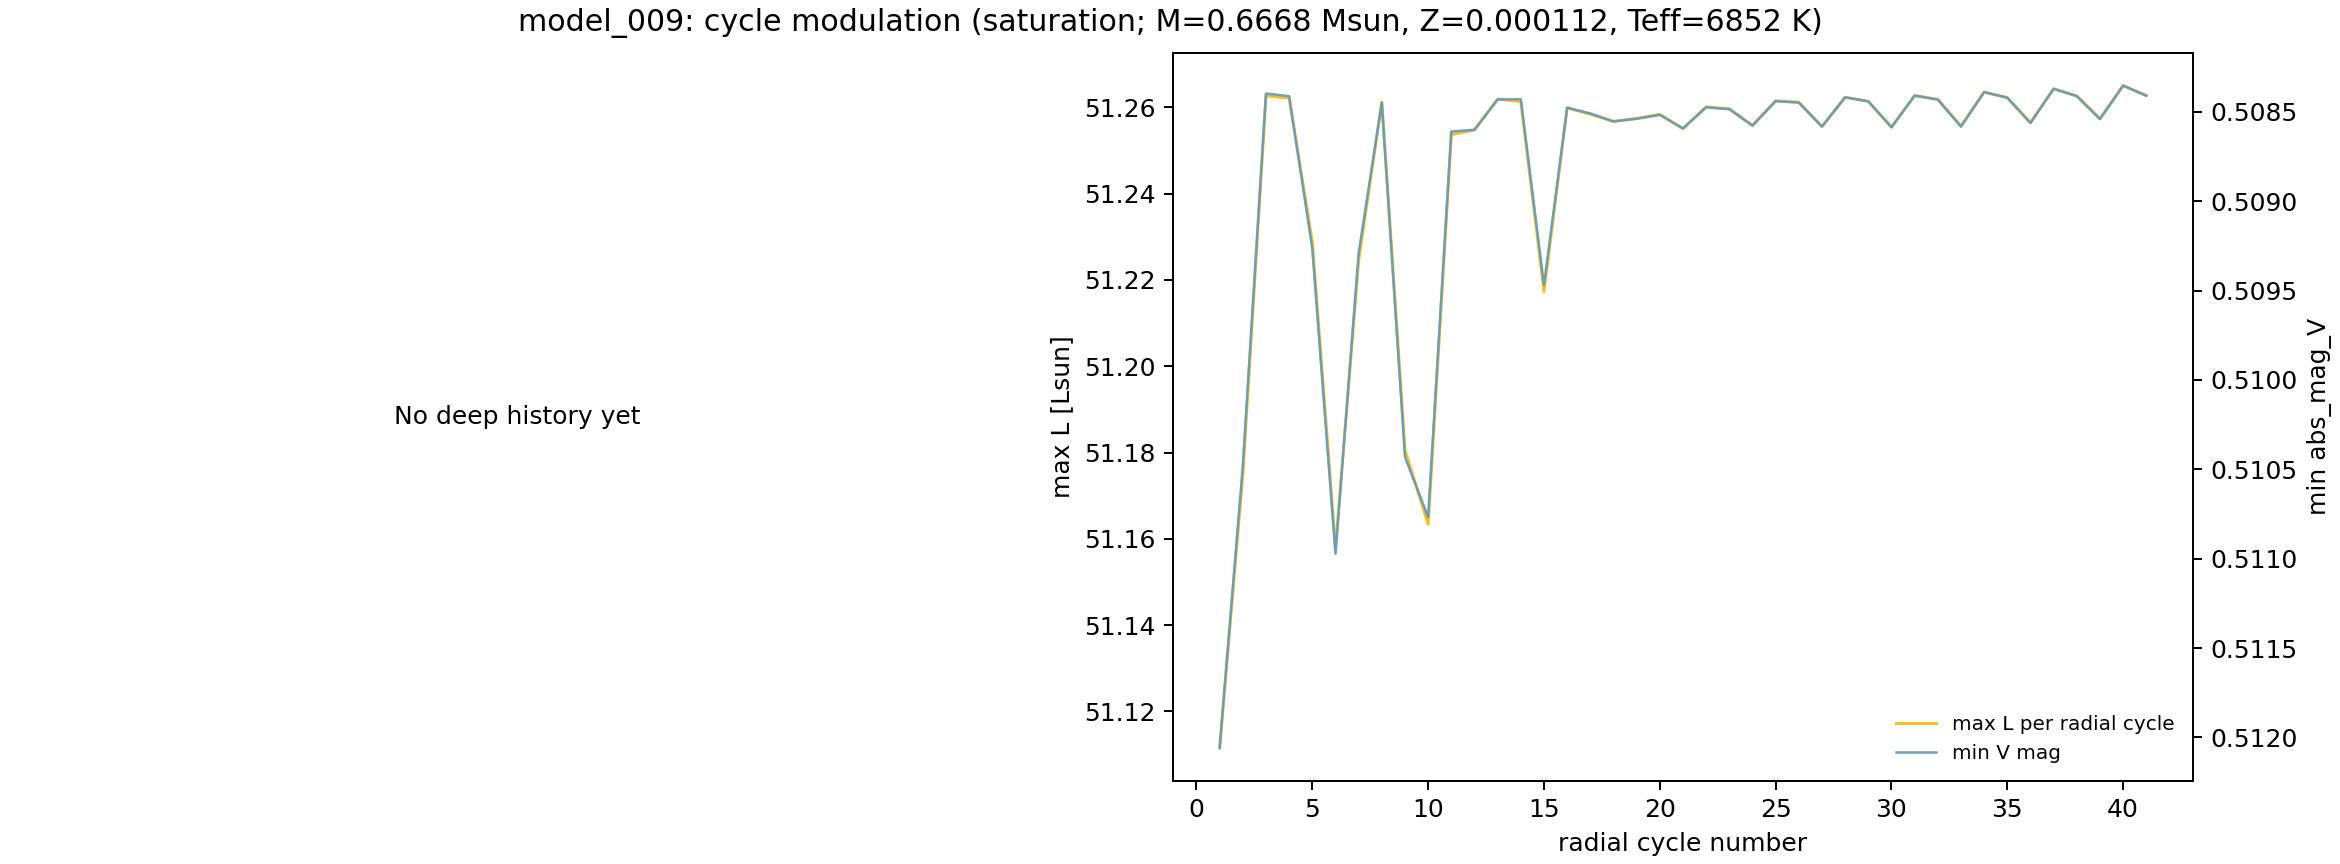
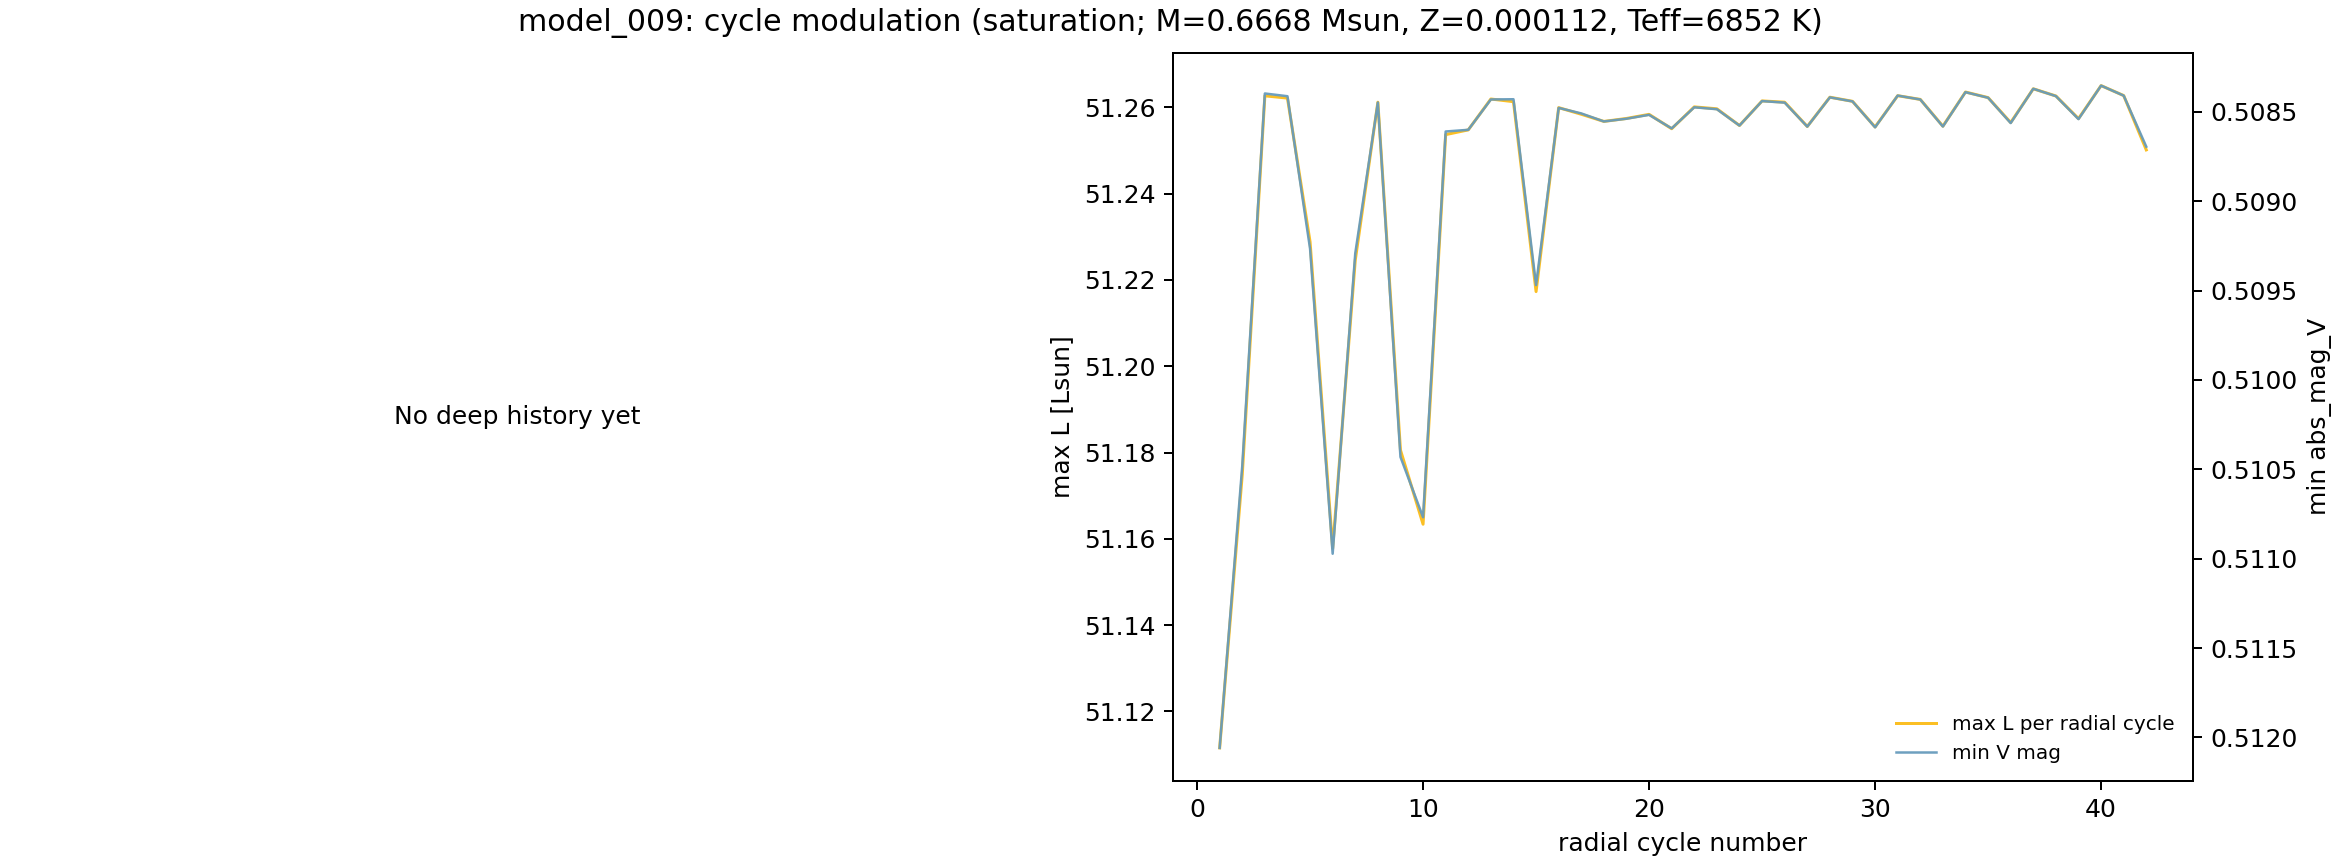
Refresh Kappa batch status

diff --git a/apps/kappa/index.html b/apps/kappa/index.html
@@ -52,7 +52,7 @@
   <header>
     <h1>Kappa</h1>
     <p class="dek">RR Lyrae RSP animations for following pressure-volume work, gas heating, ionization structure, radius, temperature, luminosity, and radial velocity through pulsation phase.</p>
-    <p class="meta">Generated 2026-06-17T15:43:04+00:00. Trusted GIFs: 1/10. Seam-verified: 4/10.</p>
+    <p class="meta">Generated 2026-06-17T15:43:55+00:00. Trusted GIFs: 1/10. Seam-verified: 4/10.</p>
   </header>
   <main>
     <nav class="toolbar"><a href="metadata/live_status.json">live status</a> <a href="metadata/batch_audit_summary.json">audit</a> <a href="metadata/manifest.json">manifest</a> <a href="metadata/cycle_modulation_summary.json">cycle modulation</a> <a href="metadata/convergence_summary_last100.json">convergence</a> <a href="metadata/convergence_summary_last100.png">convergence plot</a> <a href="metadata/convergence_trends_last100.json">convergence trends</a> <a href="metadata/convergence_trends_last100.png">convergence trend plot</a> <a href="metadata/convergence_trends_exact_last100.png">exact-history trend plot</a> <a href="metadata/models.csv">models CSV</a></nav>
@@ -108,12 +108,12 @@
             <h2>model_000</h2>
             <p>model_000_combined_14507_full_pressure_minus_eq</p>
           </div>
-          <span class="badge warn">running: plot</span>
+          <span class="badge ok">verified</span>
         </div>
         <a class="media" href="models/model_000/mesa_rsp_combined_14507_full_pressure_minus_eq_work_r_over_R_phase_cycle_dark_main_terms_gas_heating_pav_work.gif"><img src="models/model_000/mesa_rsp_combined_14507_full_pressure_minus_eq_work_r_over_R_phase_cycle_dark_main_terms_gas_heating_pav_work.gif" alt="model_000 animation"></a>
         <div class="body">
           <p class="params">M=0.7737 M_sun &nbsp; Teff=6332.6 K &nbsp; L=58.67 L_sun &nbsp; Z=2.091e-05</p>
-          <p class="details">3184 profiles | model 1901092 | 17.3 MB GIF </p>
+          <p class="details">3184 profiles | 17.3 MB GIF </p>
           <p class="links"><a href="models/model_000/mesa_rsp_combined_14507_full_pressure_minus_eq_work_r_over_R_phase_cycle_dark_main_terms_gas_heating_pav_work.gif">GIF</a> <a href="models/model_000/mesa_rsp_combined_14507_full_pressure_minus_eq_work_r_over_R_phase_cycle_dark_main_terms_gas_heating_pav_work.png">PNG</a> <a href="models/model_000/mesa_rsp_combined_14507_full_pressure_minus_eq_work_r_over_R_phase_cycle_dark_main_terms_gas_heating_pav_work_summary.json">summary</a> <a href="models/model_000/verification_summary.json">verify</a> <a href="models/model_000/mesa_rsp_combined_14507_full_pressure_minus_eq_final_cycle_lightcurve.csv">lightcurve</a></p>
         </div>
       </article>
@@ -266,7 +266,7 @@
         <div class="media placeholder">queued</div>
         <div class="body">
           <p class="params">M=0.6668 M_sun &nbsp; Teff=6852 K &nbsp; L=51.19 L_sun &nbsp; Z=0.000112</p>
-          <p class="details">period 31 / 600 | model 33250 | max v_surf/c_s 0.015 (ok) | 999 steps/cycle | strict convergence pending | history_exact_rsp_columns | 29 cycles | 29/100-cycle window </p>
+          <p class="details">period 31 / 600 | model 33380 | max v_surf/c_s 0.015 (ok) | 999 steps/cycle | strict convergence pending | history_exact_rsp_columns | 29 cycles | 29/100-cycle window </p>
           <p class="links"><span class="muted">awaiting render</span></p>
         </div>
       </article>